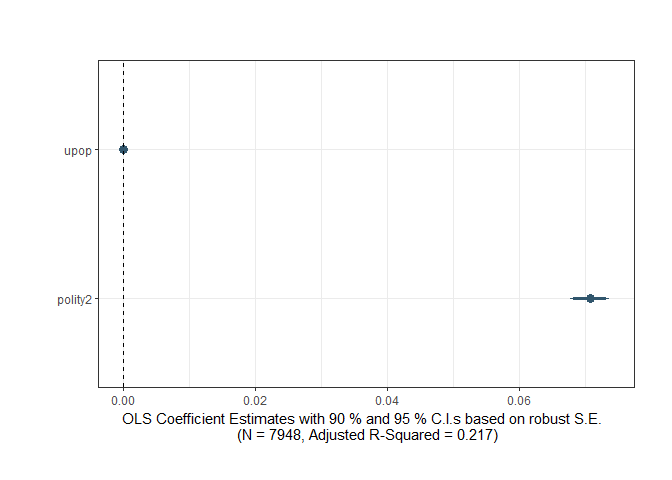
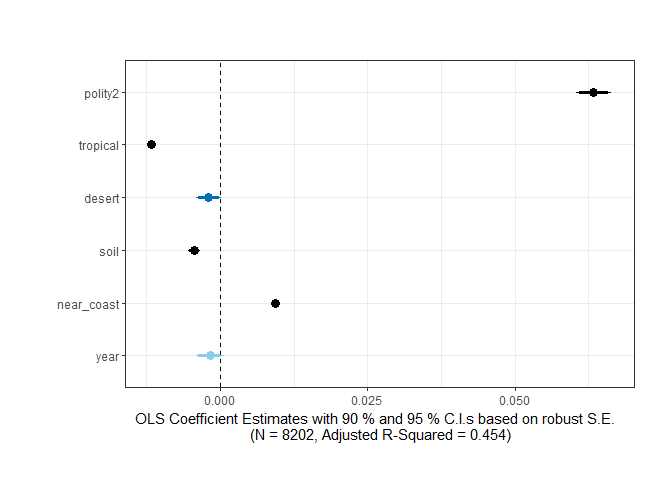
minor fix

diff --git a/README.md b/README.md
@@ -26,12 +26,30 @@ library(QuickCoefPlot)
 mydata <- readRDS("3d_example.RDS")
 
 # Use the QuickCoefPlot to produce a regression table     
-model <- lm(log_gdppc_mad ~ upop + polity2, data = mydata)
+model <- lm(log_gdppc_mad ~  polity2 + tropical + desert + soil + near_coast + year, data = mydata)
 
 QuickCoefPlot(model)
 ```
 
 ![](README_files/figure-markdown_github/unnamed-chunk-2-1.png)
+
+``` r
+QuickCoefPlot(model, robust.se = FALSE)
+```
+
+![](README_files/figure-markdown_github/unnamed-chunk-2-2.png)
+
+``` r
+QuickCoefPlot(model, boot.se = TRUE)
+```
+
+![](README_files/figure-markdown_github/unnamed-chunk-2-3.png)
+
+``` r
+QuickCoefPlot(model, boot.se = TRUE, boot.b = 1000, boot.plot.est = TRUE, legend.on = TRUE)
+```
+
+![](README_files/figure-markdown_github/unnamed-chunk-2-4.png)
 
 Arguments:
 ----------
@@ -47,7 +65,12 @@ Arguments:
 -   **robust.se** *(Optional)* If TRUE, returns robust standard errors calculated using a sandwich estimator from the "sandwich" package. Defaults to TRUE (i.e. robust rather than normal standard errors).
 -   **cluster** *(Optional)* Name of variable by which cluster-robust standard errors should be computed using the cluster.vcov command of the multiwayvcov package. If this variable is not in the model, a data frame common to both the model variables and the clustering variable must be supplied.
 -   **cluster.vars.names** *(Optional)* Desired name or label of clustering variable to be reported in table output (e.g. "Country" yields a note on the bottom of the table reading "Country-Clustered Standard Errors in Parenthesis"). If cluster specified but no "cluster.vars.names" provided, "Cluster-Robust Standard Errors in Parenthesis" is reported.
--   ***colors.off** *(Optional)\* If TRUE turns off default color scheme (sky-blue if p &gt; 0.1, blue if p &lt; 0.1, dark blue if p &lt; 0.05, and black if p &lt; 0.01)
+-   **boot.se** *(Optional)* If TRUE, calculates bootstrapped confidence intervals. Defaults to FALSE.
+-   **boot.b** *(Optional)* Integer specifying the number of bootstrap simulations to run. Defaults to 100.
+-   **boot.plot.est** *(Optional)* If TRUE, plots the bootstrap estimates semi-transparently on the coefficient plot. Defaults to FALSE.
+-   **plot.lines** *(Optional)* If FALSE, does not plot confidence intervals on the coefficient plot. Defaults to TRUE.
+-   **legend.on** *(Optional)* If TRUE turns on the plot legend. Defaults to FALSE.
+-   **colors.off** *(Optional)* If TRUE turns off default color scheme (sky-blue if p &gt; 0.1, blue if p &lt; 0.1, dark blue if p &lt; 0.05, and black if p &lt; 0.01)
 -   **plot.margin** *(Optional)* Vector of plot margins in centimeters. Defaults to (1, 1, 1, 1).
 -   **text.size** *(Optional)* Text size for plot elements.
 -   **hide.summary.lines** *(Optional)* Vector of summary lines to hide in plot output. If none supplied, defaults to none.
